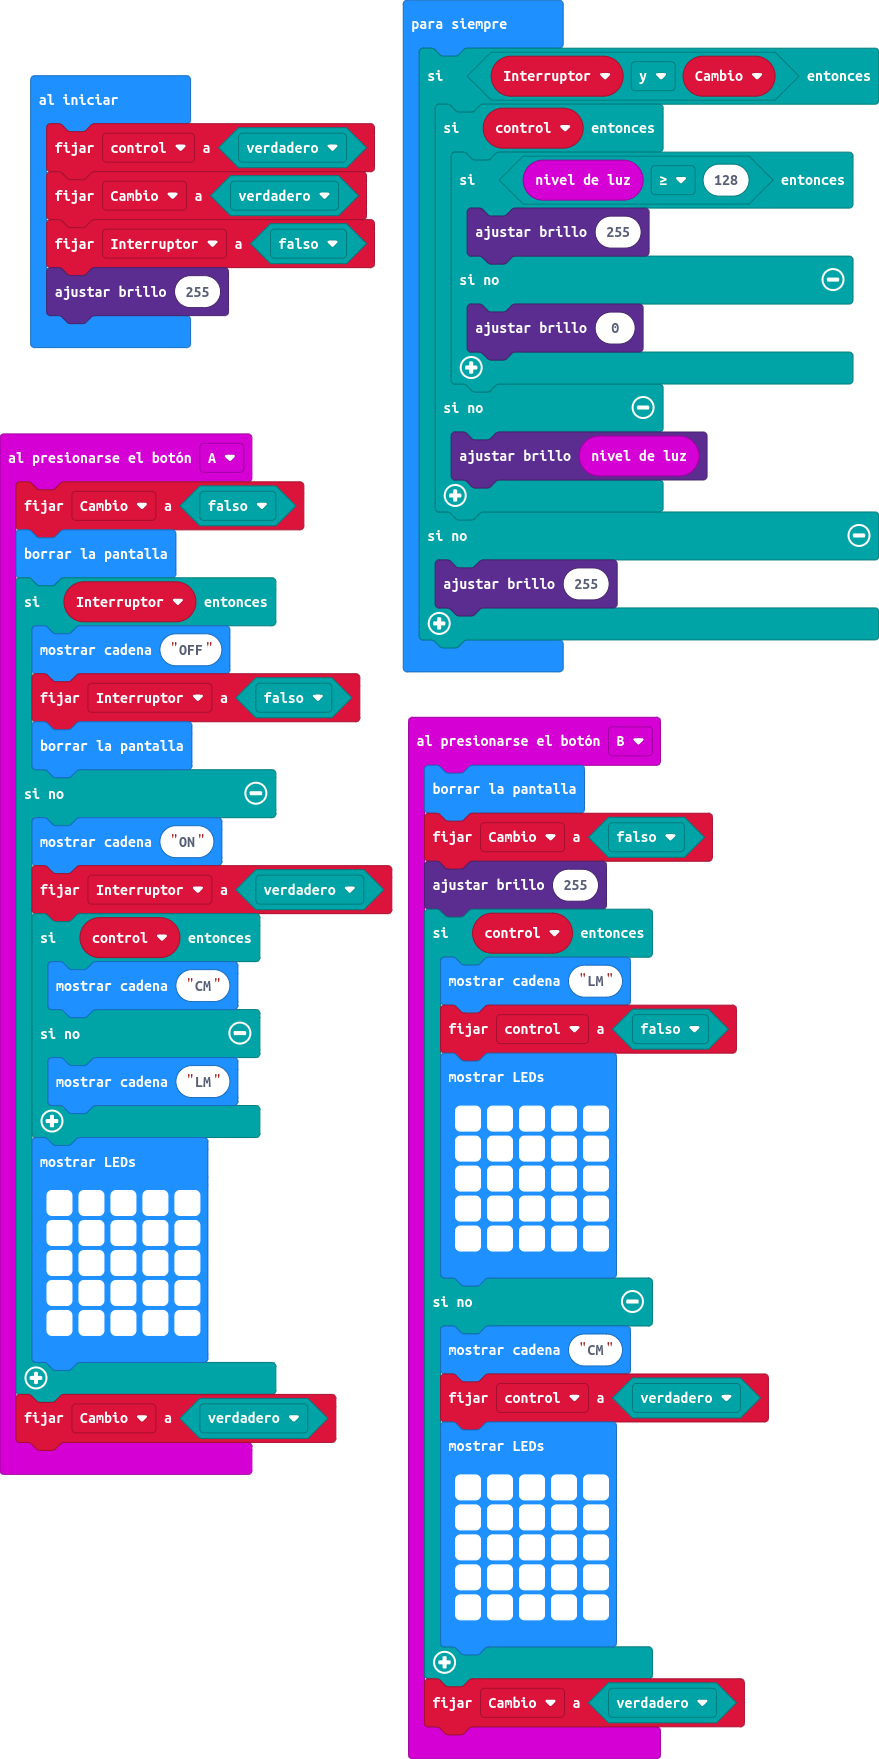
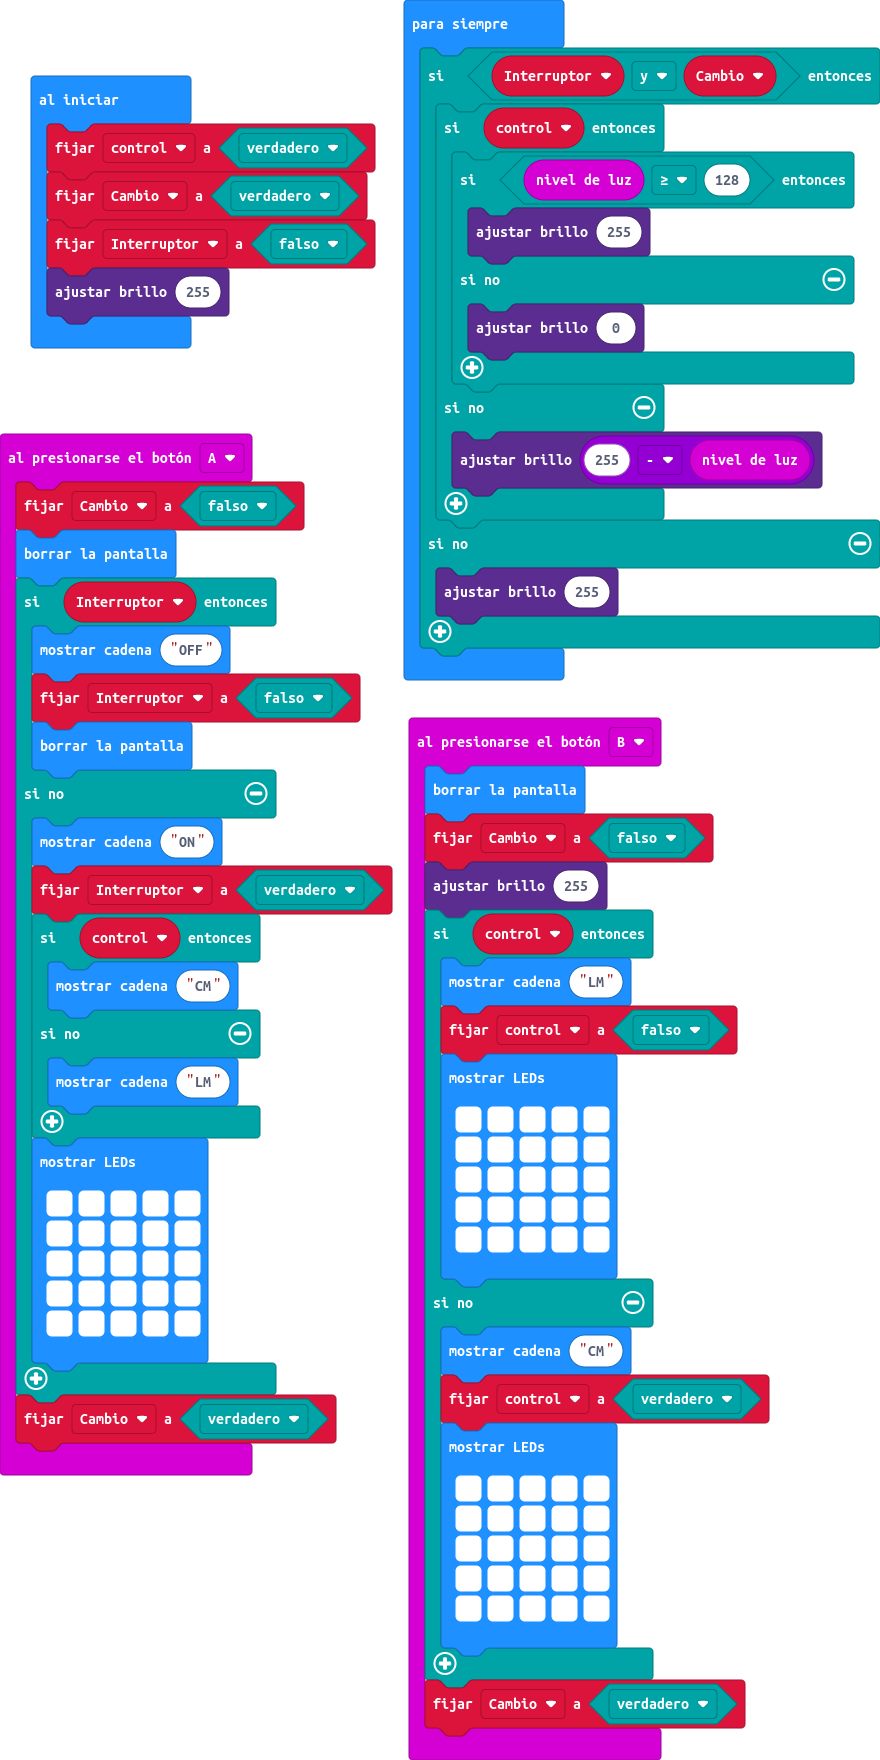
He solucionado el problema de LM

diff --git a/main.ts b/main.ts
@@ -66,7 +66,7 @@ basic.forever(function () {
                 led.setBrightness(0)
             }
         } else {
-            led.setBrightness(input.lightLevel())
+            led.setBrightness(255 - input.lightLevel())
         }
     } else {
         led.setBrightness(255)
